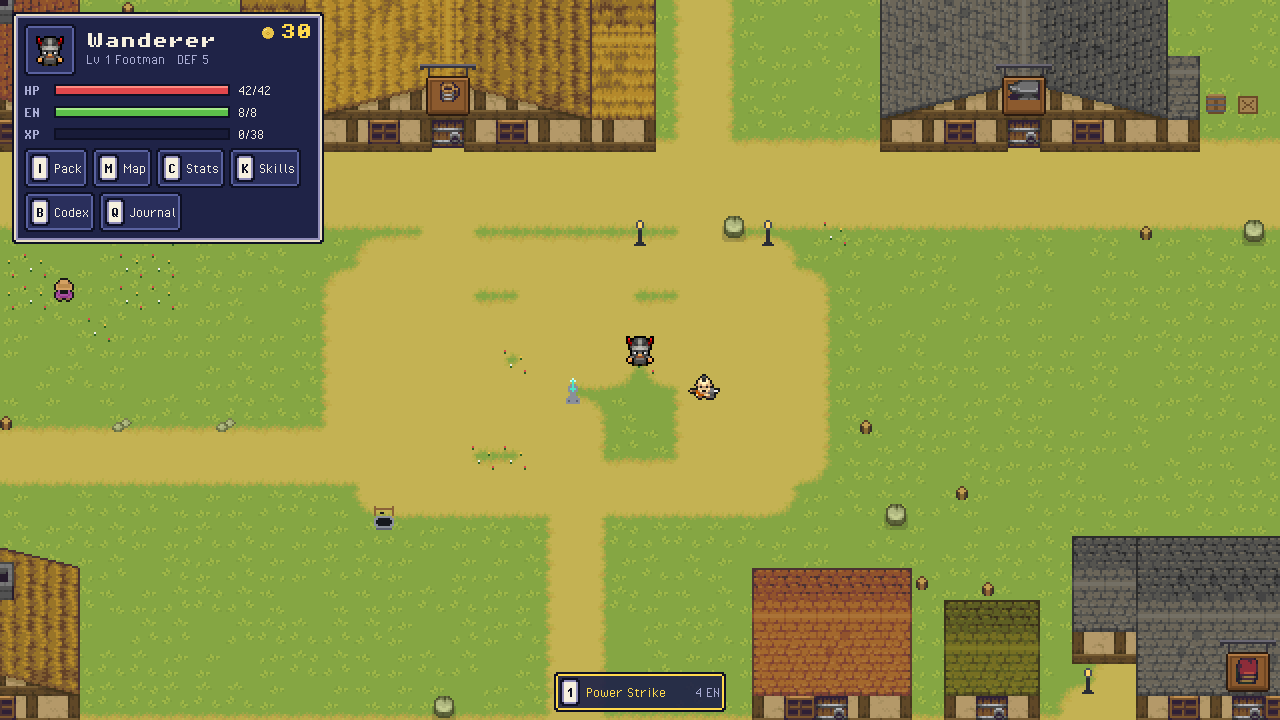
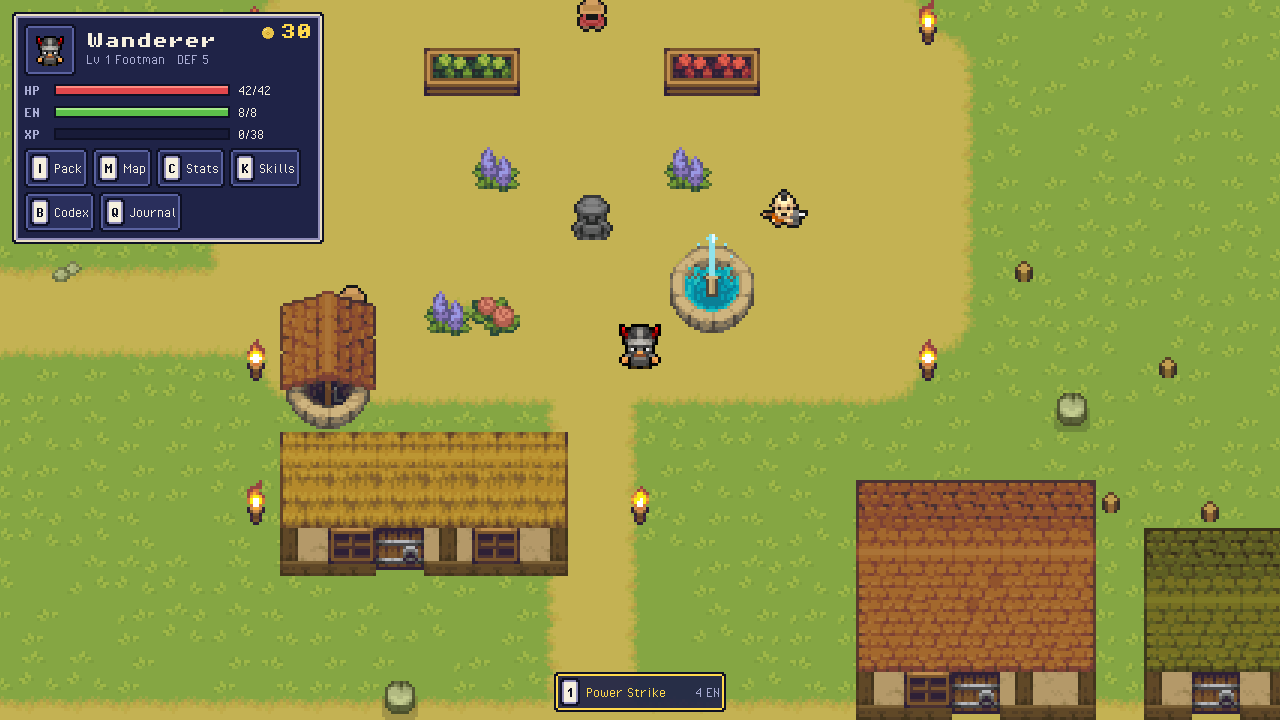
docs: v0.72 Stone and Water - the square's fountain, the village finished in Shade's hand, collision that matches what you see, a home furnished to match, and Vex's quest; the README shows the new square

diff --git a/src/app/changelog.ts b/src/app/changelog.ts
@@ -11,6 +11,18 @@ export type Release = {
  */
 export const CHANGELOG: Release[] = [
   {
+    version: "0.72.0",
+    date: "2026-10-07",
+    codename: "Stone and Water",
+    notes: [
+      "THE SQUARE'S FOUNTAIN: a stone basin of clear water with a jet at its heart, where a plain old sprite used to stand - and the village well wears a little roof",
+      "THE VILLAGE, FINISHED: lamps are flickering torches, the shrine a stone knight, the market stalls crates of greens and reds, fences join into log fences, and chests, flowers, the road's dropped pouch and the wild herbs all match the houses at last",
+      "YOU BUMP INTO WHAT YOU SEE: walk behind the well's roof and stop at the fountain's rim, bushes and stumps in the fields stand in your way (never where they'd close one), logs and twigs lie flat to step over, and villagers keep a polite step away instead of letting you stand inside them",
+      "A HOME IN THE SAME HAND: the rug, planter, bookshelf, banner, candelabra and bench you place at home are drawn like the rest of the village, the rug actually shows, and a bed's foot is the bed - rest there, but nothing can be set on it",
+      "Vex's quest can finally be taken: he talks before he trades while Greens for the Cauldron waits, in both editions",
+    ],
+  },
+  {
     version: "0.71.0",
     date: "2026-10-07",
     codename: "Steady Steps",

diff --git a/README.md b/README.md
@@ -6,7 +6,7 @@
 
 <p align="center">
   <b>A retro pixel-art open-world RPG in Godot 4.7: one hero, one village, fifteen floors of a mountain and what lies under it.</b><br />
-  Fifteen floors. Two bosses. Infinite cheese wheels. Currently v0.71 - 1.0 has to be earned.
+  Fifteen floors. Two bosses. Infinite cheese wheels. Currently v0.72 - 1.0 has to be earned.
 </p>
 
 ---
@@ -23,7 +23,7 @@ What changed release by release: the **What's new** link under the title menu, o
 
 You wake in Pixelheim village, in an open world called **the Ashenreach**: walk the roads (safe) or the wilds (not safe), talk to villagers, forage, trade, and climb the Ashen Mountain - ten floors of increasingly rude monsters - to slay **Fafnyr the Ashen** at the summit. Behind the dragon's hoard a stairway descends: five more floors of the **Undermountain**, down to **Morvax the Deathless**.
 
-- **One hand-drawn world**: hero, villagers, monsters, terrain and dungeons in Shade's Puny art; the town's timber houses and the rooms behind their doors from his Medieval Age set
+- **One hand-drawn world**: hero, villagers, monsters, terrain and dungeons in Shade's Puny art; the town's timber houses, its wells, fountain, torches and fences, and the rooms behind its doors from his Medieval Age set
 - **Real-time fights**: monsters prowl in packs and hunt you; swing, cast your skills on the number keys, and watch the ailments land - on the same numbers the game has always used
 - **7 classes that ascend**: every 5 levels a rank and its aura, and from the first rank a path that forks into 14 identities, each with a signature skill
 - **Skill trees, stats and gear**: three named paths per class, stat points that explain themselves, loot with rarities on a nine-slot paper doll
@@ -59,7 +59,7 @@ godot/tools/flows.sh                                          # the release flow
 pnpm godot:sync                                               # re-export maps and data from src/
 ```
 
-**Paid art.** The town's houses and rooms use Shade's paid _Puny World Medieval Age_ pack, which may not be redistributed, so it lives in the private `TomKlotzPro/pixelheim-assets` repository. `pnpm godot:art` installs it with your GitHub login, and the deploy fetches it with a read-only deploy key. Without it the game still runs, with plainer buildings.
+**Paid art.** The town's houses, props and rooms use Shade's paid _Puny World Medieval Age_ pack, which may not be redistributed, so it lives in the private `TomKlotzPro/pixelheim-assets` repository. `pnpm godot:art` installs it with your GitHub login, and the deploy fetches it with a read-only deploy key. Without it the game still runs, with plainer buildings and props.
 
 More on the Godot project - the save format, the screenshot harness, the release flows, web export - in [`godot/README.md`](godot/README.md).
 
@@ -72,7 +72,7 @@ godot/                 the game (Godot 4.7, GDScript)
                        - SaveCodec, Bestiary, Economy, Skills, Quests, Town... - tested with GUT
     world.gd           the world: maps, actors, the HUD, interaction
     *_screen.gd        menus and screens, all styled by ui_style.gd
-    puny_*.gd          Shade's art laid over the maps: terrain, dungeons, the town, rooms
+    puny_*.gd          Shade's art laid over the maps: terrain, dungeons, the town, props, rooms
   assets/              art (CC0 Puny packs), fonts, audio, and data exported from src/
   test/unit/           GUT tests
   tools/flows.sh       the release flows through the screenshot harness
